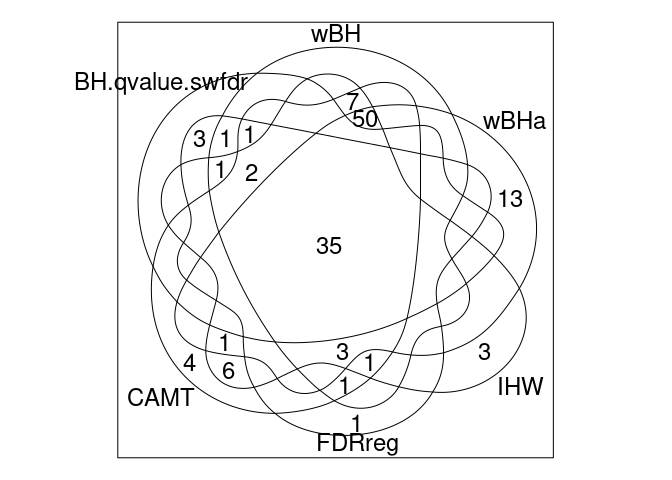
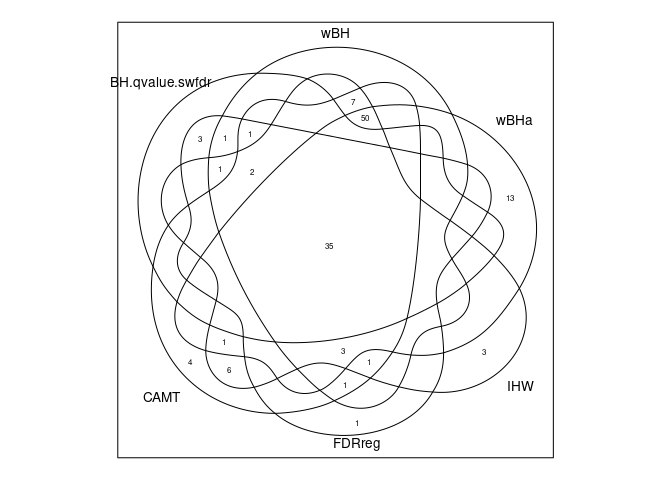
initial commit

diff --git a/GSE90102_2.md b/GSE90102_2.md
@@ -73,20 +73,9 @@ rej_histogram <- ggplot(data=rej_tab, aes(x=Procedure, y=Power, fill=Procedure))
 rej_histogram
 ```
 
-<img src="GSE90102_2_files/figure-markdown_github/Histogram_rejects-1.png" style="display: block; margin: auto;" />
+![](GSE90102_2_files/figure-markdown_github/Histogram_rejects-1.png)
 
 ### UpsetR graph
-
-``` r
-library("UpSetR")
-```
-
-    ## 
-    ## Attachement du package : 'UpSetR'
-
-    ## L'objet suivant est masqué depuis 'package:lattice':
-    ## 
-    ##     histogram
 
 ``` r
 UpsetR_graph <- upset(fromList(rej_list), order.by="freq", mainbar.y.label="SNP", sets.x.label="Nb of rejections", 
@@ -99,7 +88,6 @@ UpsetR_graph
 ### Venn diagram
 
 ``` r
-library("venn")
 # reduction of the number of groups: 8 to 6
 rej_list$qvalue==rej_list$BH
 ```
@@ -118,7 +106,7 @@ rej_list$swfdr==rej_list$BH
 
 ``` r
 rej_list2 <- list(BH.qvalue.swfdr=rej_BH, wBH=rej_wBH, wBHa=rej_wBHa, IHW=rej_IHW, FDRreg=rej_FDRreg, CAMT=rej_CAMT)
-venn_diagram <- venn(rej_list2, ilcs=1.5, sncs=1.5)
+venn_diagram <- venn(rej_list2)
 ```
 
 ![](GSE90102_2_files/figure-markdown_github/Venn-1.png)
@@ -126,9 +114,6 @@ venn_diagram <- venn(rej_list2, ilcs=1.5, sncs=1.5)
 ### Histogram of (causal) subgroups
 
 ``` r
-library("RColorBrewer")
-
-
 calc_proportion_subgroup <- function(rej_vect){
   # Allows to compute the proportion of causal SNPs in each subgroup
   rares1 <- length(which((covariates[rej_vect]<0.05)==T))
